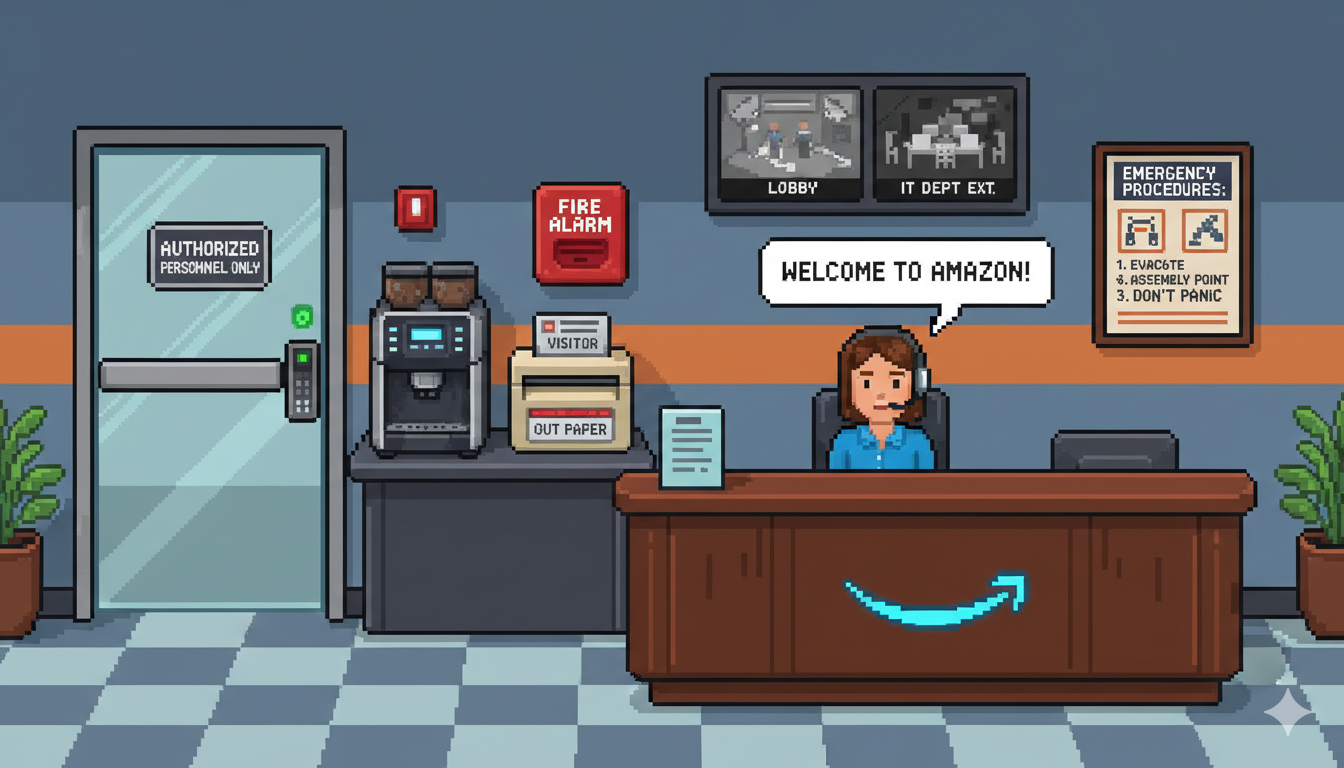
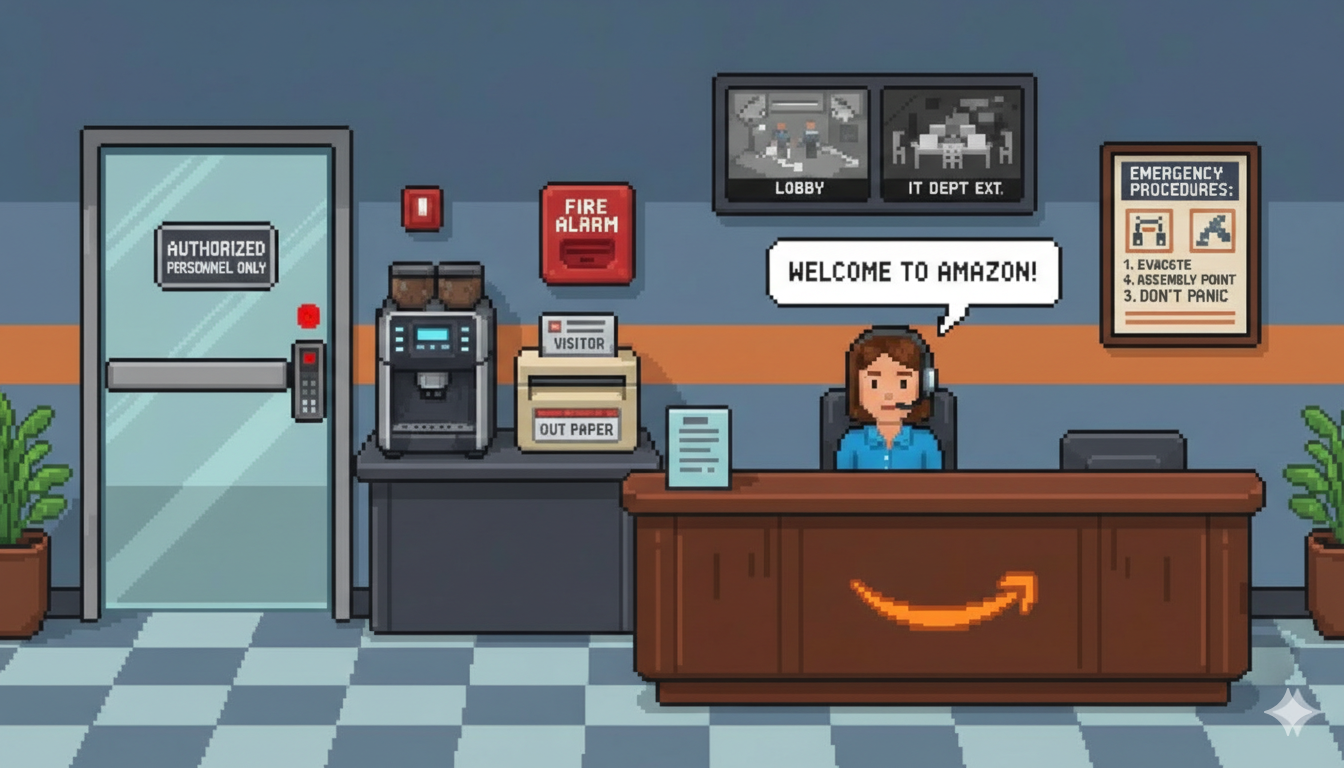
Adjust printer light position and fix ActionLine on room load

diff --git a/js/room.js b/js/room.js
@@ -20,8 +20,10 @@ Game.Room = (function () {
     // In no-walk rooms default to Look at instead of Walk to
     if (roomData && roomData.no_walk) {
       Game.Verbs.setCurrent('Look at');
+      Game.ActionLine.setVerb('Look at');
     } else {
       Game.Verbs.reset();
+      Game.ActionLine.reset();
     }
 
     if (callback) callback();
@@ -263,7 +265,7 @@ Game.Room = (function () {
       var blinkOn = Math.floor(Date.now() / 500) % 2 === 0;
       ctx.fillStyle = blinkOn ? '#ff2200' : '#660000';
       ctx.beginPath();
-      ctx.arc(524, 358, 7, 0, Math.PI * 2);
+      ctx.arc(529, 358, 7, 0, Math.PI * 2);
       ctx.fill();
 
     }
